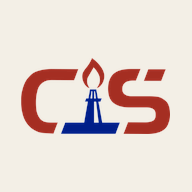
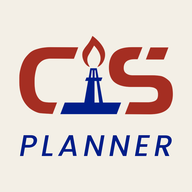
Экран входа: два подписанных входа, форма гостя видна сразу и не вылезает за рамку

Changed region(s): [[0.0938, 0.1875, 0.9062, 0.8125]]

diff --git a/frontend/src/Account.tsx b/frontend/src/Account.tsx
@@ -15,7 +15,6 @@ type GuestSession = { token: string; need_password?: boolean; has_password?: boo
 
 export function LoginScreen({ error }: { error?: string | null }) {
   const [cfg, setCfg] = useState<LoginCfg | null>(null);
-  const [guest, setGuest] = useState(false);              // открыт блок входа гостя
   const [busy, setBusy] = useState(!!guestTokenFromHash());
   const [msg, setMsg] = useState<string | null>(null);
   const [email, setEmail] = useState("");
@@ -35,7 +34,7 @@ export function LoginScreen({ error }: { error?: string | null }) {
         if (r.need_password) setSetup(r);
         else { setSession(r.token); window.location.reload(); }
       })
-      .catch((e) => { setBusy(false); setGuest(true); setMsg(cleanError(e)); });
+      .catch((e) => { setBusy(false); setMsg(cleanError(e)); });
   }, []);
 
   async function requestLink() {
@@ -62,42 +61,49 @@ export function LoginScreen({ error }: { error?: string | null }) {
     <div className="login">
       <div className="login-card">
         <div className="brand"><h1><img className="brand-mark" src="/cis-mark.png" alt="CIS" /><span className="brand-name">Planner</span></h1></div>
-        <p className="login-lead">Направления, задачи, поручения и майндмапы — в одном месте. Войдите рабочей учётной записью.</p>
-        {cfg === null ? <span className="hint">проверяю настройки…</span> : cfg.microsoft ? (
-          <a className="btn primary login-ms" href={`${API_BASE}/api/auth/login`}>
-            <svg width="16" height="16" viewBox="0 0 16 16" aria-hidden="true"><rect x="1" y="1" width="6.5" height="6.5" fill="#f25022"/><rect x="8.5" y="1" width="6.5" height="6.5" fill="#7fba00"/><rect x="1" y="8.5" width="6.5" height="6.5" fill="#00a4ef"/><rect x="8.5" y="8.5" width="6.5" height="6.5" fill="#ffb900"/></svg>
-            Войти через Microsoft
-          </a>
-        ) : (
-          <p className="hint">Вход через Microsoft не настроен на сервере (переменные MS_REDIRECT_URI и др.).</p>
-        )}
+        <p className="login-lead">Направления, задачи, поручения и майндмапы — в одном месте.</p>
 
-        {cfg?.guest_login && (guest ? (
-          <div className="login-guest">
+        {/* Два входа подписаны явно (урок 2026-09-07: гость с gmail нажал единственную большую кнопку Microsoft и получил AADSTS50020).
+            Форма гостя видна сразу, а не за ссылкой — на телефоне маленькую ссылку под кнопкой не замечают. */}
+        <section className="login-way" aria-labelledby="login-staff">
+          <h2 id="login-staff" className="login-way-title">Сотрудник CIS</h2>
+          {cfg === null ? <span className="hint">проверяю настройки…</span> : cfg.microsoft ? (
+            <a className="btn primary login-ms" href={`${API_BASE}/api/auth/login`}>
+              <svg width="16" height="16" viewBox="0 0 16 16" aria-hidden="true"><rect x="1" y="1" width="6.5" height="6.5" fill="#f25022"/><rect x="8.5" y="1" width="6.5" height="6.5" fill="#7fba00"/><rect x="1" y="8.5" width="6.5" height="6.5" fill="#00a4ef"/><rect x="8.5" y="8.5" width="6.5" height="6.5" fill="#ffb900"/></svg>
+              Войти через Microsoft
+            </a>
+          ) : (
+            <p className="hint">Вход через Microsoft не настроен на сервере (переменные MS_REDIRECT_URI и др.).</p>
+          )}
+          <span className="hint">Рабочая почта @cis.kz. Подрядчикам и партнёрам этот вход не подходит — им ниже.</span>
+        </section>
+
+        {cfg?.guest_login && (
+          <section className="login-way login-guest" aria-labelledby="login-guest-title">
+            <h2 id="login-guest-title" className="login-way-title">Внешний участник</h2>
+            <span className="hint">Подрядчик или партнёр, которого пригласил администратор: почта и пароль. Без Microsoft.</span>
             <div className="field">
               <label htmlFor="guest-email">Почта</label>
-              <input id="guest-email" className="input" type="email" value={email} autoFocus
+              <input id="guest-email" className="input" type="email" value={email} autoComplete="username" inputMode="email"
                      onChange={(e) => setEmail(e.target.value)} placeholder="partner@podryadchik.kz" />
             </div>
             <div className="field">
               <label htmlFor="guest-pwd">Пароль</label>
-              <input id="guest-pwd" className="input" type="password" value={password}
+              <input id="guest-pwd" className="input" type="password" value={password} autoComplete="current-password"
                      onChange={(e) => setPassword(e.target.value)}
                      onKeyDown={(e) => { if (e.key === "Enter" && emailOk && password && !busy) loginWithPassword(); }} />
             </div>
-            <button className="btn primary" onClick={loginWithPassword} disabled={busy || !emailOk || !password}>Войти</button>
+            <button className="btn primary" onClick={loginWithPassword} disabled={busy || !emailOk || !password}>Войти как внешний участник</button>
             <button className="btn ghost sm" onClick={requestLink} disabled={busy || !emailOk}>
               Первый вход или забыли пароль — прислать ссылку на почту
             </button>
-            <span className="hint">Ссылка действует 15 минут и срабатывает один раз; по ней вы зададите пароль. Сотрудникам CIS этот вход не нужен — входите через Microsoft.</span>
-          </div>
-        ) : (
-          <button className="btn ghost sm" onClick={() => setGuest(true)}>Я внешний участник — вход по паролю</button>
-        ))}
+            <span className="hint">Ссылка действует 15 минут и срабатывает один раз; по ней вы зададите пароль.</span>
+          </section>
+        )}
 
         {msg && <p className="hint" style={{ color: "var(--text)" }}>{msg}</p>}
         {error && <p className="login-error">{error}</p>}
-        <p className="hint login-foot">Caspian Integrated Services · доступ по учётным записям компании</p>
+        <p className="hint login-foot">Caspian Integrated Services · доступ только по приглашению</p>
       </div>
     </div>
   );

diff --git a/frontend/src/__tests__/login.test.tsx b/frontend/src/__tests__/login.test.tsx
@@ -1,0 +1,25 @@
+// Экран входа (урок 2026-09-07): гость с gmail нажал единственную большую кнопку Microsoft и получил AADSTS50020,
+// потому что форма гостя была спрятана за ссылкой. Проверяем тем же симптомом: поля почты и пароля видны сразу, оба входа подписаны.
+import { render, screen, waitFor } from "@testing-library/react";
+import { afterEach, describe, expect, it, vi } from "vitest";
+import { LoginScreen } from "../Account";
+
+vi.mock("../api", async (importOriginal) => {
+  const orig = await importOriginal<typeof import("../api")>();
+  return { ...orig, api: vi.fn(async () => ({ microsoft: true, guest_login: true })), post: vi.fn() };
+});
+
+afterEach(() => vi.restoreAllMocks());
+
+describe("LoginScreen", () => {
+  it("форма гостя видна без лишних кликов, оба входа подписаны", async () => {
+    render(<LoginScreen />);
+    await waitFor(() => expect(screen.getByRole("link", { name: /Войти через Microsoft/ })).toBeInTheDocument());
+    expect(screen.getByRole("heading", { name: "Сотрудник CIS" })).toBeInTheDocument();
+    expect(screen.getByRole("heading", { name: "Внешний участник" })).toBeInTheDocument();
+    expect(screen.getByLabelText("Почта")).toBeInTheDocument();
+    expect(screen.getByLabelText("Пароль")).toBeInTheDocument();
+    expect(screen.getByRole("button", { name: "Войти как внешний участник" })).toBeDisabled();   // пока почта и пароль пустые
+    expect(screen.queryByText(/Я внешний участник — вход по паролю/)).toBeNull();                // прежней скрытой ссылки больше нет
+  });
+});

diff --git a/frontend/src/styles.css b/frontend/src/styles.css
@@ -869,7 +869,13 @@ button.arch-name:hover { color: var(--accent); cursor: pointer; }
 }
 
 /* Вход внешнего участника по ссылке на почту (v0.10) */
-.login-guest { display: grid; gap: 8px; width: 100%; padding: 12px; border: 1px solid var(--line); border-radius: 2px; background: var(--surface-2); }
+/* Экран входа: два подписанных входа — сотрудник (Microsoft) и внешний участник (почта + пароль) */
+.login-way { display: grid; grid-template-columns: minmax(0, 1fr); gap: 8px; width: 100%; min-width: 0; padding: 12px 14px 14px; border: 1px solid var(--line); border-radius: var(--radius); background: var(--surface); }
+.login-way .btn { white-space: normal; text-align: center; justify-content: center; }   /* длинная подпись кнопки переносится, а не растягивает карточку на телефоне */
+.login-way-title { margin: 0; font-size: 12px; text-transform: uppercase; letter-spacing: 0.08em; color: var(--text-3); font-weight: 600; }
+[data-theme="journal"] .login-way-title { font-family: var(--font); }
+.login-way .login-ms { width: 100%; }
+.login-guest { background: var(--surface-2); }
 .login-guest .row { gap: 8px; }
 .login-guest .input { min-width: 0; }
 

diff --git a/frontend/vite.config.ts b/frontend/vite.config.ts
@@ -10,8 +10,14 @@ export default defineConfig({
       injectRegister: false,
       workbox: { cleanupOutdatedCaches: true, clientsClaim: true, skipWaiting: true, navigateFallbackDenylist: [/^\/api\//] },
       manifest: {
-        name: "CIS Planner", short_name: "CIS Planner", display: "standalone", theme_color: "#e9e3d5", background_color: "#f3efe6",
-        icons: [{ src: "/icon-192.png", sizes: "192x192", type: "image/png" }, { src: "/icon-512.png", sizes: "512x512", type: "image/png", purpose: "any maskable" }],
+        name: "CIS Planner", short_name: "CIS Planner", description: "Направления, задачи и поручения CIS",
+        display: "standalone", theme_color: "#e9e3d5", background_color: "#f3efe6", lang: "ru", start_url: "/", scope: "/",
+        icons: [
+          { src: "/icon-192.png", sizes: "192x192", type: "image/png", purpose: "any" },
+          { src: "/icon-512.png", sizes: "512x512", type: "image/png", purpose: "any" },
+          // maskable отдельным файлом: Android режет края, у него больше поля вокруг знака
+          { src: "/icon-maskable-512.png", sizes: "512x512", type: "image/png", purpose: "maskable" },
+        ],
       },
     }),
   ],

diff --git a/frontend/index.html b/frontend/index.html
@@ -5,11 +5,13 @@
     <meta name="viewport" content="width=device-width, initial-scale=1.0, viewport-fit=cover" />
     <meta name="apple-mobile-web-app-capable" content="yes" />
     <meta name="apple-mobile-web-app-status-bar-style" content="default" />
-    <meta name="apple-mobile-web-app-title" content="Planner" />
+    <!-- Подпись под иконкой на экране «Домой» у iPhone (иначе Safari берёт адрес сайта) -->
+    <meta name="apple-mobile-web-app-title" content="CIS Planner" />
     <meta name="theme-color" content="#e9e3d5" />
     <title>CIS Planner</title>
-    <link rel="icon" type="image/png" href="/favicon.png" />
-    <link rel="apple-touch-icon" href="/icon-192.png" />
+    <link rel="icon" type="image/png" sizes="64x64" href="/favicon.png" />
+    <link rel="apple-touch-icon" sizes="180x180" href="/apple-touch-icon.png" />
+    <meta name="application-name" content="CIS Planner" />
   </head>
   <body>
     <div id="root"></div>

diff --git a/frontend/src/Sidebar.tsx b/frontend/src/Sidebar.tsx
@@ -66,7 +66,7 @@ export default function Sidebar({ directions, projects, tasks, view, mindmapCoun
 
   return (
     <aside className="side">
-      <div className="brand"><h1><img className="brand-mark" src="/cis-mark.png" alt="CIS" /><span className="brand-name">Planner</span></h1><span className="ver">v0.11</span></div>
+      <div className="brand"><h1><img className="brand-mark" src="/cis-mark.png" alt="CIS" /><span className="brand-name">Planner</span></h1><span className="ver">v1.0</span></div>
       {me && <UserChip me={me} onClick={onProfile} />}
 
       <div className="side-list side-top">

diff --git a/backend/app/main.py b/backend/app/main.py
@@ -26,7 +26,7 @@ async def lifespan(app: FastAPI):
         await task
 
 
-app = FastAPI(title="CIS Planner API", version="0.10.0", lifespan=lifespan)
+app = FastAPI(title="CIS Planner API", version="1.0.0", lifespan=lifespan)
 app.add_middleware(CORSMiddleware, allow_origins=settings.cors_list, allow_methods=["*"], allow_headers=["*"])
 
 

diff --git a/claude/LOG.md b/claude/LOG.md
@@ -4,6 +4,25 @@
 
 ---
 
+## 2026-09-07 · сессия 13 · Cowork (desktop) — v1.0: запуск, иконка приложения, презентация и база знаний
+
+**Повод** — владелец: «запускаем в использование: ставим версию 1.0, добавь в презентацию мобильную версию и свежие инструкции, сделай иконку сайта лого + PLANNER (на телефоне непонятно, что за приложение), и нужен общий проект „Как пользоваться Планнером“ с базой знаний».
+
+**Решения владельца (2026-09-07)**
+- Версия продукта — **1.0**: планнер выходит из режима стройки в режим использования.
+- Иконка приложения — **лого CIS + слово PLANNER**, как в самой панели, а не только знак.
+- Для коллег — **отдельный общий проект claude.ai** с базой знаний, чтобы люди спрашивали «как это работает» не у Jack'а, а у проекта.
+
+**Сделано**
+- **Иконки и имя приложения.** Из `cis-mark.png` собран квадратный локап (знак + PLANNER, Poppins Medium Italic в синем #001E89 на бумаге #F3EFE6): `favicon.png` 64, `icon-192.png`, `icon-512.png`, `apple-touch-icon.png` 180 и отдельный `icon-maskable-512.png` с полями 22% (Android режет края — «any maskable» на одном файле обрезал локап). В `index.html`: `apple-mobile-web-app-title` = **CIS Planner** (было «Planner» — из-за этого iPhone подписывал иконку адресом сайта), `apple-touch-icon` 180×180, `application-name`. В `vite.config.ts` манифест: `description`, `lang`, `start_url`, `scope`, иконки с явными `purpose` (192/512 — any, отдельный maskable).
+- **Версия 1.0**: `main.py` → `1.0.0`, сайдбар → `v1.0`, титул и подвал презентации.
+- **Презентация — 21 слайд** (был 20): новый слайд **«На телефоне это приложение, а не уменьшенный сайт»** (четыре вкладки внизу, доска одной колонкой, «⋯» вместо перетаскивания, карточка на весь экран, макет телефона и инструкция «на домашний экран» для iOS и Android). Обновлены: шаг 4 подключения — «Включить Telegram в профиле» вместо «написать боту /start»; на слайде подключения — абзац про ChatGPT (только текстом); на слайде прав — карточка «Внешние — по приглашению» (гости); «Как начать» — про иконку на домашнем экране и про кнопку «Подключить Telegram». Нумерация слайдов пересобрана (у слайда-разделителя номера не было — добавлен). Проверка: замер высоты всех слайдов HTML на 1440×820 и 1280×720 (переполнений нет), `validate.py` PASSED, PDF-рендер и визуальное ревью изменённых слайдов отдельным агентом — две правки (карточка «Что видит Claude» не вмещала абзац про ChatGPT; на слайде прав правая колонка выходила за поле и ряды липли).
+- **База знаний для нового проекта** (7 файлов, отдана владельцу архивом, в репо не кладём): начало и установка на телефон · все экраны и кнопки (панель, телефон, карта, доска, карточка, напоминания, люди, тулы, майндмапы, архив, корзина, профиль) · Claude и голос (подключение, 25 команд, что нельзя, ChatGPT, заметки телефона) · Telegram и напоминания (кнопка в профиле, команды бота, каналы, адресаты, сводка, диагностика) · работа вместе (доступ, поручения, гости с паролями) · частые вопросы · текст `Project instructions` и советы, что ещё положить (PDF презентации, скриншоты, реальные вопросы коллег).
+
+**Осталось** — владелец: `npm run build` (иконки попадут в `dist`), коммит/пуш; на телефоне удалить старую иконку и добавить заново — подпись станет «CIS Planner», картинка — лого с PLANNER. Затем создать проект «Как пользоваться Планнером» по файлу `00-ИНСТРУКЦИИ-ПРОЕКТА.md` и раздать коллегам вместе с письмом-инструкцией.
+
+---
+
 ## 2026-09-07 · сессия 12 · Cowork (cloud + папка) — v0.11: удобная версия для телефона
 
 **Повод** — владелец: «с телефона открывается компьютерная версия, неудобно навигировать; нужен ли второй фронтенд в Railway?»
@@ -24,7 +43,13 @@
 - **Проверка:** `npm run build` чисто; vitest **66 passed** (новый `src/__tests__/mobile.test.tsx`: вкладки и бейдж, шторка открывается/закрывается при переходе, доска стартует с «В работе», «⋯» → PUT со статусом и без открытия карточки, на компьютере поведение прежнее); `tsc -b` в папке владельца тоже чистый. Playwright на стенде `_serve_ui.py`: телефон 390×844 (карта, доска, меню статуса, карточка задачи, поручено, шторка, меню направления, карта проектов, люди) и компьютер 1440 — без изменений.
 - Файлы записаны прямо в папку владельца (git не запускался). `styles.css` за время сессии поменяла параллельная сессия (гости с паролями) — правки объединены вручную.
 
-**Осталось** — владелец: `npm run build` и `npm test` для контроля (66), коммит/пуш; после деплоя открыть `cis-planner.up.railway.app` на телефоне, в Safari «Поделиться → На экран „Домой“» (Chrome: меню → «Добавить на главный экран»). Проверить: вкладки внизу, «Ещё» → направления, доска «В работе», «⋯» на карточке меняет статус, карточка задачи со статусом под названием. Идеи дальше: свайп между статусами, долгое нажатие вместо «⋯», push-уведомления PWA.
+**Доработка (сессия 12, тот же день) — экран входа для гостя (симптом: гость с gmail получил AADSTS50020)**
+- Что случилось: v0.10 был задеплоен и `/auth/config` отдавал `guest_login: true`, но форма гостя пряталась за маленькой серой ссылкой «Я внешний участник — вход по паролю» под большой кнопкой Microsoft, а текст сверху говорил «Войдите рабочей учётной записью». Гость нажал единственную заметную кнопку → Microsoft отказал (учётка не в тенанте). Ошибка не в бэкенде, а в механике экрана.
+- Починка механизма (`Account.tsx`): два явно подписанных блока — «Сотрудник CIS» (кнопка Microsoft + подсказка «подрядчикам этот вход не подходит — им ниже») и «Внешний участник» (почта, пароль, «Войти как внешний участник», «прислать ссылку»); форма гостя видна **сразу**, без клика; убраны слова «рабочей учётной записью» и «доступ по учётным записям компании». Поля с `autocomplete`/`inputmode` для телефона. CSS `.login-way` (`minmax(0,1fr)`, кнопки с переносом текста — длинная подпись растягивала карточку на 390px).
+- Проверка тем же симптомом: тест `login.test.tsx` — поля «Почта» и «Пароль» и оба заголовка видны сразу после загрузки конфигурации, прежней скрытой ссылки нет; vitest **67 passed**, `npm run build` чисто, скриншот 390px.
+- Урок в PROJECT.md: альтернативный путь входа не прятать за ссылкой — если есть два способа войти, оба показывать и подписывать.
+
+**Осталось** — владелец: `npm run build` и `npm test` для контроля (67), коммит/пуш; после деплоя открыть `cis-planner.up.railway.app` на телефоне, в Safari «Поделиться → На экран „Домой“» (Chrome: меню → «Добавить на главный экран»). Проверить: вкладки внизу, «Ещё» → направления, доска «В работе», «⋯» на карточке меняет статус, карточка задачи со статусом под названием. Идеи дальше: свайп между статусами, долгое нажатие вместо «⋯», push-уведомления PWA.
 
 ---
 

diff --git a/claude/HANDOFF.md b/claude/HANDOFF.md
@@ -1,6 +1,7 @@
 # HANDOFF — текущее состояние и следующий шаг
 
-_Обновлено: 2026-09-07, сессия 12 (Cowork). **Версия v0.11** — удобная версия для телефона: нижняя панель вкладок, шторка «Ещё» с левой панелью, доска одной колонкой со вкладками статусов, «⋯» на карточке меняет статус, карточка задачи на весь экран со статусом под названием; только фронт, миграций нет. v0.10 — внешние участники: раздел «Гости» (только админ), вход гостя по одноразовой ссылке на почту, мгновенный отзыв доступа. **Нужна миграция `d5e6f7a8b9c0`.** v0.9 — Telegram-бот показывает chat id, привязывает чат из профиля и ставит себе меню команд; тот же MCP-коннектор работает и в ChatGPT. v0.8 — починка по итогам адверсариального ревью (корзина, архив, «без направления», перенос проекта, права, OAuth, планировщик, безопасный confirm/автосейв). Сессия 8 — презентация для коллег (`claude/PRESENTATION.md`)._
+_Обновлено: 2026-09-07, сессия 13 (Cowork). **Версия 1.0 — планнер запущен в использование.** Иконка приложения «лого + PLANNER» (favicon, apple-touch-icon, maskable) и правильная подпись на домашнем экране; презентация — 21 слайд со слайдом про телефон и свежими инструкциями; для коллег подготовлена база знаний под отдельный проект claude.ai. Ранее: v0.11 — версия для телефона (нижние вкладки, доска одной колонкой, «⋯» меняет статус); v0.10 — гости с паролями (**нужны миграции `d5e6f7a8b9c0` и `e6f7a8b9c0d1`**); v0.9 — Telegram-бот и коннектор в ChatGPT; v0.8 — починка по итогам адверсариального ревью._
+_Дополнение сессии 12 (после сессии 13): **экран входа переделан** — два подписанных входа («Сотрудник CIS» / «Внешний участник»), форма гостя видна сразу; повод — гость с gmail нажал кнопку Microsoft и получил AADSTS50020. Файлы `Account.tsx`, `styles.css`, `__tests__/login.test.tsx`; vitest 67. **Ждёт коммита/пуша.** Гостю объяснить: нижний блок «Внешний участник», кнопку Microsoft не трогать; первый раз — «прислать ссылку на почту»._
 
 ## Состояние
 | Что | Статус |
@@ -23,6 +24,7 @@ _Обновлено: 2026-09-07, сессия 12 (Cowork). **Версия v0.11*
 | v0.7 Чеклист + перенос задач между проектами | ✅ в git (`cbbea7f`); в проде проверить `alembic current` = `b3c4d5e6f7a8` |
 | Адверсариальное ревью (сессия 7) | ✅ `claude/REVIEW-2026-09-04.md`, `claude/review/*.md` — все находки К/В/С и почти все Н закрыты в v0.8 |
 | **v0.8 починка** | ✅ код + миграция `c4d5e6f7a8b9` + тесты: pytest **147 passed**, vitest **61 passed**, `npm run build` чисто, сквозной сценарий на стенде пройден. **Ждёт: секреты в Railway/.env, `alembic upgrade head`, коммит/пуш, проверка в проде** |
+| **1.0 Запуск** | ✅ версия 1.0 в API и панели; иконки `favicon/icon-192/icon-512/apple-touch-icon/icon-maskable-512` (локап знак + PLANNER), `index.html` (`apple-mobile-web-app-title` = CIS Planner) и манифест в `vite.config.ts`; презентация 21 слайд (PDF + .pptx у владельца); база знаний для проекта «Как пользоваться Планнером» — 7 файлов, отданы архивом. **Ждёт: `npm run build`, коммит/пуш, переустановка иконки на телефоне** |
 | **v0.11 Телефон** | ✅ код + 5 тестов: `src/mobile.ts`, `src/MobileNav.tsx`, правки `App.tsx`, `Board.tsx`, `TaskPanel.tsx`, `Sidebar.tsx` (v0.11), `styles.css` (блок v0.11 в конце), `index.html`; `src/__tests__/mobile.test.tsx`. `npm run build` чисто, vitest **66 passed**, скриншоты 390×844 и 1440 проверены. Один фронт и один сервис Railway — второй фронтенд не нужен. **Ждёт: коммит/пуш, проверка на телефоне, добавить на экран «Домой»** |
 | **v0.10 Гости (внешние участники)** | ✅ код + 34 теста (включая пароли): `app/guests.py`, `routers/guests.py`, вход `/api/auth/guest/request|verify`, раздел «Гости» в UI, блок «Я внешний участник» на входе, `docs/GUESTS.md`. Вход гостя — почта + пароль (ссылка только для первого входа и сброса), смена пароля гасит прежние сессии, владельцу уведомление. Прогон: pytest **209 passed**, vitest 61, `npm run build` чисто; экран входа, установка пароля, вход паролем, неверный пароль и раздел «Гости» проверены в браузере. **Ждёт: `alembic upgrade head` (две миграции → `e6f7a8b9c0d1`), коммит/пуш** |
 | **v0.9 Telegram-бот отвечает** | ✅ код + 17 тестов: `telegram_link.py`, `routers/telegram.py` (+ меню команд `setMyCommands` при старте), кнопка «Подключить Telegram» в профиле, `docs/TELEGRAM.md`; 20 тестов. **Ждёт: `TELEGRAM_BOT_USERNAME=cisplannerbot` и `TELEGRAM_WEBHOOK_SECRET` в Railway, один запрос `setWebhook`, коммит** |
@@ -32,6 +34,7 @@ _Обновлено: 2026-09-07, сессия 12 (Cowork). **Версия v0.11*
 | Каналы в проде | ✅ Telegram, email и календарь Outlook через Graph проверены. Секрет Graph был вставлен в чат — стоит перевыпустить. |
 
 ## Следующий шаг (по порядку)
+0. **Владелец — выпуск 1.0:** в `frontend` `npm run build` (иконки уйдут в `dist`), затем `alembic upgrade head` при живой базе (или дать Railway применить миграции при старте), коммит/пуш. На телефоне удалить старую иконку с домашнего экрана и добавить заново — подпись станет «CIS Planner», иконка — лого с PLANNER. Создать проект claude.ai «Как пользоваться Планнером» по `00-ИНСТРУКЦИИ-ПРОЕКТА.md` из архива базы знаний и раздать коллегам ссылку вместе с письмом-инструкцией.
 0. **Владелец — v0.11 (телефон):** в `frontend` `npm run build` и `npm test` (66 passed), затем коммит/пуш вместе с v0.10. После деплоя на телефоне открыть `https://cis-planner.up.railway.app` → добавить на экран «Домой» (Safari: «Поделиться» → «На экран „Домой“»; Chrome: меню → «Добавить на главный экран»). Проверить: внизу 4 вкладки; «Ещё» → список направлений и проектов, «⋯» у направления даёт меню шторкой; «Задачи» → одна колонка «В работе», вкладки статусов сверху; «⋯» на карточке → «→ Готово» меняет статус; карточка задачи — на весь экран, статус/проект/приоритет сразу под названием. Компьютерная версия не менялась.
 0. **Владелец — v0.10 (гости с паролями):** `alembic upgrade head` → `alembic current` = `e6f7a8b9c0d1 (head)` (применятся две миграции); `.\.venv\Scripts\python.exe -m pytest tests -q` (209 passed) и `npm run build`; коммит/пуш. После деплоя проверить: раздел «Гости» виден только вам; «+ Гость» с внешней почтой; гость по ссылке задаёт пароль и потом входит почтой + паролем; «Сбросить пароль» присылает ему ссылку; «Закрыть доступ» → его сессия сразу перестаёт работать; вам приходит уведомление о смене пароля. Подробности — `docs/GUESTS.md`.
 0. **Владелец — Telegram-бот (v0.9):** распаковать архив сессии 9 в репо; в Railway у `backend` добавить `TELEGRAM_BOT_USERNAME=cisplannerbot` и `TELEGRAM_WEBHOOK_SECRET` (32+ символа, `python -c "import secrets; print(secrets.token_urlsafe(32))"`); после перезапуска один раз открыть в браузере `https://api.telegram.org/bot<ТОКЕН>/setWebhook?url=https://backend-production-830f1.up.railway.app/api/telegram/webhook&secret_token=<СЕКРЕТ>` (ответ `"Webhook was set"`). Проверка: боту `/id` → отвечает chat id; в профиле «Подключить Telegram» → «Запустить» → «Готово, Имя!». Подробности и диагностика — `docs/TELEGRAM.md`.

diff --git a/claude/PROJECT.md b/claude/PROJECT.md
@@ -93,7 +93,15 @@
 - **Навигация на телефоне — нижняя панель вкладок**: Карта · Задачи · Поручено (с числом) · Ещё. «Ещё» — шторка снизу с той же левой панелью (направления, проекты, Архив, Гости, Корзина, профиль).
 - **Доска на телефоне — одна колонка выбранного статуса**, вкладки статусов сверху (старт — «В работе»); перетаскивания нет, статус меняется кнопкой «⋯» на карточке или в карточке задачи.
 - **Карточка задачи на телефоне** — на весь экран; статус, проект, приоритет и сроки — сразу под названием, остальное ниже.
+- **Экран входа (урок 2026-09-07):** если способов войти два, оба показываются и подписываются («Сотрудник CIS» / «Внешний участник»); альтернативный путь не прячется за ссылкой — гость с gmail нажал кнопку Microsoft и получил AADSTS50020. Правило общее: запасной путь пользователь не ищет, он нажимает самое заметное.
 - Референс — прежний: Huly / Linear (мобильные приложения). Поля ввода ≥16px, цели ≥40px, контекстные меню — шторкой снизу, системных окон браузера по-прежнему нет.
+
+## Решения 1.0 — запуск (владелец, 2026-09-07)
+- Версия продукта — **1.0**: планнер переходит из стройки в использование. Номер держим в трёх местах: `main.py` (`version=`), сайдбар (`ver`), титул и подвал презентации.
+- **Иконка приложения — локап «знак CIS + PLANNER»**, как в панели, а не только знак: на домашнем экране телефона иначе непонятно, что это за приложение. Файлы в `frontend/public`: `favicon.png` 64, `icon-192.png`, `icon-512.png`, `apple-touch-icon.png` 180, `icon-maskable-512.png` (поля 22%, отдельным файлом — Android режет края, поэтому «any maskable» на одном файле обрезал слово).
+- Подпись под иконкой у iPhone берётся из `apple-mobile-web-app-title` — должно быть ровно **CIS Planner** (иначе Safari подставляет адрес сайта).
+- Для коллег — **отдельный общий проект claude.ai «Как пользоваться Планнером»** с базой знаний (начало, экраны и кнопки, Claude и голос, Telegram, работа вместе, частые вопросы). Технические файлы репозитория (`claude/*.md`, `docs/*.md`) в этот проект не кладём — они про разработку. Файл частых вопросов пополняем реальными вопросами коллег.
+- Презентация для коллег живёт как HTML-артефакт claude.ai + `.pptx` + PDF (PDF — для телефона и рассылки, предпросмотр .pptx на iPhone рисует слайды не полностью).
 
 ## Дорожная карта
 0. ✅ Каркас (бэк, фронт-заглушка, compose, Railway).
@@ -108,6 +116,7 @@
 11. ✅ **v0.8 Адверсариальное ревью → починка** (2026-09-04): корзина, архив, «без направления», перенос/копирование проекта, права редактора, валидация, OAuth MCP (cookie-привязка согласия, одноразовый код, лимиты), устойчивый планировщик, безопасный confirm и автосейв. 208 тестов (pytest 147 + vitest 61).
 12. ✅ **v0.9 Бот Telegram + коннектор в ChatGPT** (2026-09-07): команды `/id`, `/start <код>`, `/stop`; кнопка «Подключить Telegram» в профиле; вебхук с секретом; без миграции. Документация — `docs/TELEGRAM.md`. Плюс тот же MCP-сервер подключается в ChatGPT (Developer mode, планы Plus и выше) — **только текстом: голосовой режим ChatGPT коннекторы не поддерживает**, голос остаётся у Claude. Документация — `docs/MCP_CONNECTOR.md`, раздел v0.9.
 13. ✅ **v0.10 Внешние участники** (2026-09-07): раздел «Гости» (только админ), вход по одноразовой ссылке на почту, мгновенный отзыв доступа; миграция `d5e6f7a8b9c0`. Документация — `docs/GUESTS.md`.
+14. ✅ **1.0 Запуск** (2026-09-07): версия 1.0 везде, иконка приложения «знак CIS + PLANNER» и правильная подпись на домашнем экране, презентация 21 слайд со слайдом про телефон, база знаний для общего проекта «Как пользоваться Планнером».
 10. ✅ **v0.7 Чеклист в задаче + перенос задач между проектами перетаскиванием** (2026-09-04, по предложениям Нурсултана). v0.6.1 — понятные ошибки MCP с подсказками `hint`, терпимость к строкам вместо массивов.
 9. ✅ **v0.6 Проекты и совместный доступ** (2026-09-03, по предложениям коллеги): слой «проекты» между направлениями и задачами; шаринг направлений/проектов/задач по почте с правом смотреть/редактировать; раздел «Общие»; MCP-инструменты `list_projects / create_project / update_project / share_access / revoke_access / list_shares`. Идея дальше: роли «руководитель/команда» поверх шаринга.
 
